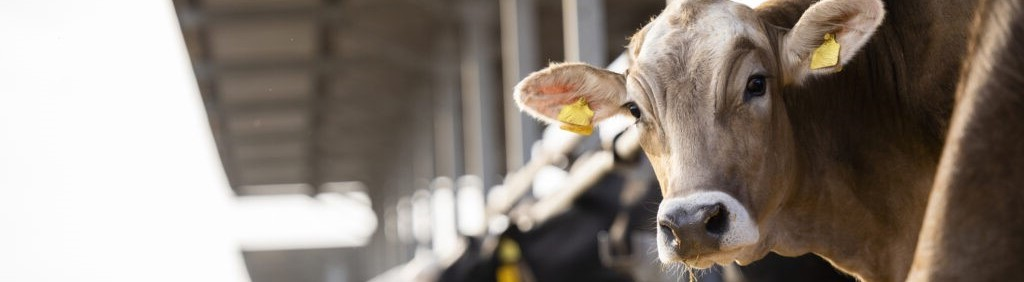
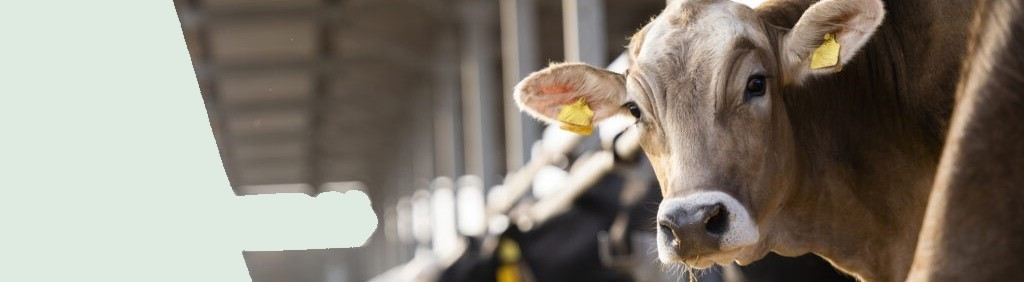
professor ederson ajudou

Changed region(s): [[0.0, 0.0, 0.375, 1.0]]

diff --git a/view/public/css/carrossel_pg_inicial-reserva.css b/view/public/css/carrossel_pg_inicial-reserva.css
@@ -43,7 +43,9 @@ body {
 .texto2-carrossel-pg-inicial{
     text-align: justify;
 }
- 
+ .brilho{
+    opacity:100%;
+ }
 .texto2-carrossel-pg-inicial { 
     color: var(--color-primary-1); /* Cor do parágrafo */ 
     font-size: 20px; 
@@ -55,13 +57,14 @@ body {
 }
 
 #carousel_text{
-    color: yellowgreen;
+
     text-align: left;
     z-index: 1;
     /* box-sizing: border-box; */
     font-family: 'Roboto', sans-serif;
+    color: white;
     height: 200px;
-    padding: 0;
+    padding: 10% 8% 5% 5%;
     position: absolute;
     top:20px;
     width: 800px;

diff --git a/controller/carrossel_pg_inicial-valdir.php b/controller/carrossel_pg_inicial-valdir.php
@@ -15,7 +15,7 @@ include 'menu-pg-inicial.php';
 
 <div id="carouselExampleControls" class="carousel slide" data-ride="carousel">
   <div class="carousel-inner">
-    <div class="carousel-item active">
+    <div class="carousel-item active brilho">
       <img class="d-block w-100" src="../view/public/Imagens/pecuaria.jpg" alt="First slide">
     
      
@@ -39,13 +39,13 @@ include 'menu-pg-inicial.php';
 </div>
 
 <div class="#">
-        <h3 class="carrossel">
+        <h3 id="carousel_text" class="text-g">
             <span>
                 Seja bem-vindo ao nosso site!
             </span>
         </h3>
         
-        <h5 id="carousel_text">Somos um negócio familiar, com anos de experiência no ramo de vendas de animais pecuários, acumulando clientes ao redor de todo o mundo. Temos certeza de que aqui você achará exatamento o(s) animal(is) que procura!">
+        <h5 id="carousel_text" class="text">Somos um negócio familiar, com anos de experiência no ramo de vendas de animais pecuários, acumulando clientes ao redor de todo o mundo. Temos certeza de que aqui você achará exatamento o(s) animal(is) que procura!
         </h5>
         <button class="btn">Saiba mais</button>
     </div>
